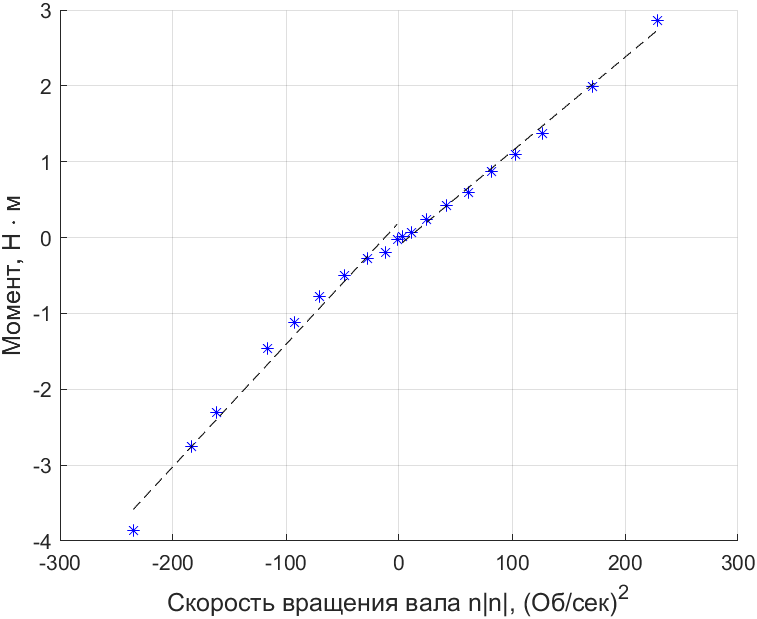
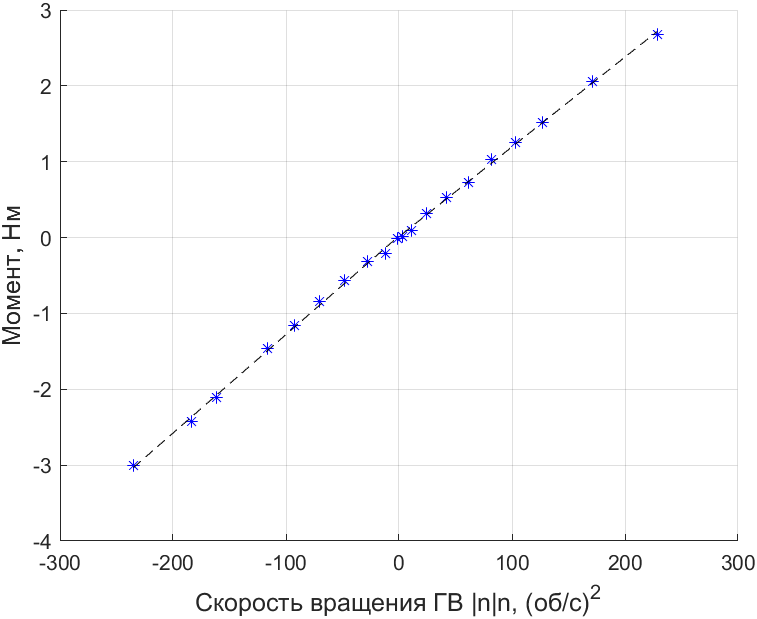
Немного переработана глава посвященная идентификации скорости набегающего потока.

diff --git a/Dissertation/partVelocity.tex b/Dissertation/partVelocity.tex
@@ -1,11 +1,11 @@
 \chapter{Оценка скорости набегающего потока в установившемся режиме движения ПА по изменению параметров работы маршевых движителей}\label{ch:Velocity}
 
 \section{Анализ модели маршевого движителя в установившемся режиме работы}
-Упор создаваемый гребным винтом движителя $T$ и момент сопротивления вращению $Q$ формируемый при этом на валу определяется следующими формулами \cite{пантов1973основы}:
-\begin{gather}
-    T(n, J_0) = K_T (J_0) \rho D^4 n |n| \notag \\
-    Q(n, J_0) = K_Q (J_0) \rho D^5 n |n| \label{eq:torque_stab}
-\end{gather}
+Как было показано в формулах \ref{eq:kt_kq} в установившемся режиме упор создаваемый гребным винтом движителя $T$ и момент сопротивления вращению $Q$ формируемый при этом на валу определяется следующими формулами:
+\begin{gather*}
+    T(n, J_0) = K_T (J_0) \rho D^4 n |n|\\
+    Q(n, J_0) = K_Q (J_0) \rho D^5 n |n|
+\end{gather*}
 \noindent где:
 \begin{itemize}
     \item $K_T (J_0), K_Q (J_0)$ -- соответственно, коэффициенты упора и момента;
@@ -17,21 +17,20 @@
 Переменная $J_0$ представляет собой относительную поступь и определяется следующим уравнением:
 \begin{equation}
     \label{eq:ratio_1}
-    J_0 = \frac{u_a}{nD}
+    J_0 = \frac{v_a}{nD}
 \end{equation}
-\noindent где $u_a$ -- скорость набегающего потока воды относительно ПА.
-Эта скорость не совсем равна скорости аппарата $u$ и в устоявшемся режиме связана с ней следующим соотношением \cite{lewis1988principles}:
+\noindent где $v_a$ -- скорость набегающего потока воды относительно ПА.
+Эта скорость не совсем равна скорости аппарата $v$ и в устоявшемся режиме связана с ней следующим соотношением \cite{lewis1988principles}:
 \begin{equation*}
-    u_a = (1-w)u
+    v_a = (1-w)v
 \end{equation*}
 \noindent где $w$ -- коэффициент попутного потока.
-Параметр $w$ находится в диапазоне $0.1-0.4$ в зависимости от конструктивных особенностей движителя и ПА.
 
 Более подробно параметр $w$ представлен в работе \cite{10.1016/s1474-6670-17-46514-1} которая опирается лекционные заметки \cite{walderhaug1992motstand}:
 
 \begin{equation*}
     \label{eq:ambient_flow}
-    u_a = (1-w)u = (1 - w_w - w_p - w_v)u
+    v_a = (1-w)u = (1 - w_w - w_p - w_v)v
 \end{equation*}
 \noindent где:
 \begin{itemize}
@@ -39,7 +38,11 @@
     \item $w_v$ -- составная часть коэффициента попутного потока отражающая влияние вязких эффектов из-за влияния пограничных слоев.
 \end{itemize}
 
-Коэффициенты упора и момента гребного винта $K_T (J_0), K_Q (J_0)$ в больших пределах могут быть линейно аппроксимированы следующим образом \cite{10.1109/48.838987}:
+Параметр $w$ находится в диапазоне $0.1-0.4$ в зависимости от конструктивных особенностей судна.
+Этот коэффициент важен для движителей судов так как движители там установлены в гидродинамической тени, которую создает корпус судна и учет этого параметра необходим.
+При разработке АНПА, за счет малого и обтекаемого корпуса и, зачастую, за счет выноса маршевой группы из гидродинамической тени создаваемой аппаратом, этим коэффициентом можно пренебречь и в дальнейшем в работе мы будем считать что $v_a \approx v$.
+
+Коэффициенты упора и момента гребного винта $K_T (J_0), K_Q (J_0)$ в ограниченных пределах могут быть линейно аппроксимированы следующим образом \cite{10.1109/48.838987}:
 \begin{gather}
     \label{eq:coef_1}
     K_T(J_0) = \alpha_1 - \alpha_2 J_0 \\
@@ -58,43 +61,59 @@
 
 Из определения линейной аппроксимации коэффициента момента (\ref{eq:torque_linear}) и относительной поступи (уравнение \ref{eq:ratio_1}) можно выразить скорость набегающего потока следующим образом:
 \begin{equation}
-    u_a = \frac{1}{\beta_1} n D \left( K_Q^{bp} - K_Q \right)
+    v = \frac{1}{\beta_1} n D \left( K_Q^{bp} - K_Q \right)
 \end{equation}
-\noindent где коэффициент момента гребного винта в установившемся режиме хорошо описывается выражением \ref{eq:torque_stab}.
 
-С другой стороны динамика электропривода движителя стандартно представляется следующими дифференциальными уравнениями, которые хорошо описывают поведение асинхронного бесколлекторного двигателя:
-\begin{gather*}
-    L_a\frac{d}{dt}I=-R_aI-K_m n + V_m \\
-    J_m\dot{n} = K_m I - Q
-\end{gather*}
+С другой стороны динамика электропривода подводного движителя стандартно представляется следующими дифференциальными уравнениями:
+\begin{equation*}
+    \begin{array}{rl}
+        L_a\dot{I} &=-R_aI-C_e n + V \\
+        J_m\dot{n} &= C_m I - Q
+    \end{array}
+\end{equation*}
+\noindent где:
+\begin{itemize}
+    \item $V$ -- напряжение подводнимое к мотору;
+    \item $I$ -- ток в обмотках;
+    \item $n$ -- частота вращения вала электропривода;
+    \item $Q$ -- момент на валу;
+    \item $C_m$ -- коэффициент момента электропривода;
+    \item $R_a$ -- активное сопротивление обмоток электропривода;
+    \item $L_a$ -- индуктивность обмоток электропривода;
+    \item $С_e$ -- коэффициент самоиндукции;
+    \item $J_m$ -- момент инерции вала.
+\end{itemize}
 
-Важно учесть что, при релейном управлении фазами бесколлекторного двигателя коэффициент $K_m$ не является постоянной величиной и имеет обратно экспоненциальную зависимость от времени между переключениями фаз. 
-Эта зависимость хорошо описывается следующим уравнением в установившемся режиме работы мотора:
+Соответственно в установившемся режиме момент на валу движителя прямо пропорционален току на его обмотках:
 \begin{equation}
-    \label{eq:couple_coeff}
-    Q(n, I) = K_m(n)I = F_m \frac{I}{n}
+    Q = C_mI
 \end{equation}
-\noindent где $I$ -- ток на обмотках мотора, $n$ -- скорость вращения вала мотора, а переменную $F_m$ будем называть коэффициентом магнитной связности ротора и статора и её считаем величиной постоянной для данной конструкции привода.
 
-Соответственно, в установившемся режиме работы привода момент на валу мотора пропорционален току на обмотке привода, тогда может быть получено следующее выражение для расчета скорости набегающего потока на гребной винт движителя:
+% Важно учесть что, при релейном управлении фазами бесколлекторного двигателя коэффициент $K_m$ не является постоянной величиной и имеет обратно экспоненциальную зависимость от времени между переключениями фаз. 
+% Эта зависимость хорошо описывается следующим уравнением в установившемся режиме работы мотора:
+% \begin{equation}
+%     \label{eq:couple_coeff}
+%     Q(n, I) = K_m(n)I = F_m \frac{I}{n}
+% \end{equation}
+% \noindent где $I$ -- ток на обмотках мотора, $n$ -- скорость вращения вала мотора, а переменную $F_m$ будем называть коэффициентом магнитной связности ротора и статора и её считаем величиной постоянной для данной конструкции привода.
 
+% Соответственно, в установившемся режиме работы привода момент на валу мотора пропорционален току на обмотке привода, тогда может быть получено следующее выражение для расчета скорости набегающего потока на гребной винт движителя:
+
+Тогда формула для расчета скорости по параметрам работы движителя будет записана следующим образом:
 \begin{equation}
     \label{eq:velocity_final}
-    u_a \approx u = \frac{1}{\beta_1} \left( K_Q^{bp} n_u D - F_m\frac{I_u}{\rho D^4|n_u|n_u} \right)
+    u = \frac{1}{\beta_1} \left( K_Q^{bp} n D - K_m\frac{I}{\rho D^4|n|n} \right)
 \end{equation}
 \noindent где 
 \begin{itemize}
-    \item $K_Q^{bp}$ -- коэффициент момента сопротивления вращению гребного винта рассчитанный в ходе швартовных испытаний движителя; \item $\beta_1$ -- линейный коэффициент полиномиальной аппроксимации коэффициента момент $K_Q$;
-    \item $I_u$ -- ток на обмотках привода движителя при заданном коде управления $u$;
-    \item $n_u$ -- скорость вращения вала движителя при заданном коде управления $u$;
+    \item $K_Q^{bp}$ -- коэффициент момента сопротивления вращению гребного винта рассчитанный в ходе швартовных испытаний движителя; \item $\beta_1$ -- линейный коэффициент полиномиальной аппроксимации коэффициента момента сопротивления вращению $K_Q$;
+    \item $I$ -- ток на обмотках электропривода движителя;
+    \item $n$ -- скорость вращения вала электропривода;
 \end{itemize}
 
-В дальнейших расчетах мы будем принимать $u \approx u_a$, т.е. считать что коэффициент попутного потока $w$ пренебрежимо мал.
-Этот коэффициент важен для движителей судов, т.к., зачастую, движители там установлены в гидродинамической тени, которую создает корпус судна и там учет этого параметра необходим.
-При разработке автономных необитаемых подводных аппаратов, за счет малого и обтекаемого корпуса и, зачастую, за счет выноса маршевой группы из гидродинамической тени создаваемой аппаратом, этим коэффициентом можно пренебречь.
-
 \section{Учёт пространственной ориентации маршевых движителей при оценке скорости набегающего потока}
-В случае, если подводный аппарат оснащён единственным маршевым движителем, а маневрирование обеспечивается рулями управления в режиме крейсерской скорости или при помощи подруливающих движителей в позиционном режиме или в режиме малых скоростей. Примером таких аппаратов может служить линейка АНПА ``Remus'' \cite{allen1997remus, kukulya2010under}.
+В случае, если подводный аппарат оснащён единственным маршевым движителем, а маневрирование обеспечивается рулями управления в режиме крейсерской скорости или при помощи подруливающих движителей в позиционном режиме или в режиме малых скоростей, то формула \ref{eq:velocity_final} может обеспечить оценку скорости набегающего потока.
+Примером таких аппаратов может служить линейка АНПА ``Remus'' \cite{allen1997remus, kukulya2010under}.
 
 С другой стороны, отечественная практика разработки автономных подводных аппаратов отходит от мировой и в основном заключается в использовании четырех движителей, расположенных в кормовой секции под некоторым углом к продольной оси аппарата.
 Это такие аппараты как «МТ-2010» \cite{борейко2011малогабаритный}, «ММТ-3000» \cite{горнак2007ммт} и прочие АНПА разработанные в Институте проблем морских технологий ДВО РАН. 
@@ -102,7 +121,7 @@
 Такой подход позволяет повысить надежность системы за счет отсутствия основного двигателя, поломка которого полностью выведет из строя подводный аппарат.
 Кроме этого такая конфигурация движительно-рулевого комплекса позволяет обеспечивать управление по вращательным степеням свободы даже в позиционном режиме.
 
-Если в маршевой группе движителей подводного аппарата больше одного, то расчёт скорости набегающего потока по изменению параметров работы приводов становится более затруднительным и требует точного учета расположения и ориентации каждого движителя в пространстве.
+В этом расчёт скорости набегающего потока по изменению параметров работы электроприводов более затруднителен и требует точного учета расположения и ориентации каждого движителя в пространстве.
 
 Пусть движители повёрнуты относительно продольной оси аппарата на углы $\phi^i, \theta^i$, где угол $\phi^i$ определяет разворот движителя в горизонтальной плоскости, а $\theta^i$ -- разворот движителя в вертикальной плоскости.
 Идентификатор $i$ меняется в диапазоне $[1,..,k]$, где $k$ -- количество движителей в кормовой секции.
@@ -120,22 +139,42 @@
     \item $\theta^i_t$ -- отклонение движителя от продольной оси аппарата в вертикальной плоскости плоскости;
 \end{itemize}
 
-Кроме этого, так же важно учесть, что при наличии ненулевых углов атаки $\alpha$ и дрейфа $\beta$ в скоростной системе координат идентифицируемые скорости на различных движителях будут различны и это необходимо учитывать.
+Но такая конфигурация маршевой группы движителей позволяет определять не только скорость набегающего потока, как в случае единственного маршевого движителя, но так же и углы атаки и дрейфа.
 
-Пусть АНПА движется со скоростью $u$ относительно грунта с курсом $\phi$ в локальной инерциальной системе координат и постоянным дифферентом вызванным положительной плавучестью АНПА $\theta_b$.
+Пусть аппарат оснащен симметричной маршевой группой, состоящей из двух вертикальных и двух горизонтальных движителей.
+Каждый из отклонён от продольной оси аппарата на $\delta$. 
+Пусть на аппарат набегает поток величиной $u$ и при этом угол атаки ПА в ССК $\alpha$ и угол дрейфа $\beta$.
+В этом случае скорости детектиуремые на движителях определяются следующими зависимостями:
+\begin{equation*}
+    \left\{
+    \begin{array}{l}
+        v_l = v \cos{(\delta - \beta)} \\
+        v_r = v \cos{(\delta + \beta)} \\
+        v_u = v \cos{(\delta - \alpha)} \\
+        v_d = v \cos{(\delta + \alpha)}
+    \end{array}
+    \right.
+\end{equation*}
 
-Пусть течение в области движения АНПА неизменно по скорости и направлению и определяется переменными $u_c$ и $\phi_c$ В ИСК, соответственно.
+Из представленной системы уравнений несложно получить что угол атаки и угол дрейфа можно описать следующими выражениями:
 
-\begin{noteplan}
-    Тут еще не доработано. Добавлю про расчет угла атаки и дрейфа и возможность расчета параметров течения, если есть данные с доплера.
-\end{noteplan}
+\begin{gather}
+    \beta = \arctan{\left[\frac{1}{\tan{\delta}}\frac{v_l-v_r}{v_l+v_r}\right]} \\
+    \alpha = \arctan{\left[\frac{1}{\tan{\delta}}\frac{v_u-v_d}{v_u+v_d}\right]}
+\end{gather}
+
+% Кроме этого, так же важно учесть, что при наличии ненулевых углов атаки $\alpha$ и дрейфа $\beta$ в скоростной системе координат идентифицируемые скорости на различных движителях будут различны и это необходимо учитывать.
+
+% Пусть АНПА движется со скоростью $u$ относительно грунта с курсом $\phi$ в локальной инерциальной системе координат и постоянным дифферентом вызванным положительной плавучестью АНПА $\theta_b$.
+
+% Пусть течение в области движения АНПА неизменно по скорости и направлению и определяется переменными $u_c$ и $\phi_c$ В ИСК, соответственно.
+
+% \begin{noteplan}
+%     Тут еще не доработано. Добавлю про расчет угла атаки и дрейфа и возможность расчета параметров течения, если есть данные с доплера.
+% \end{noteplan}
 
 \section{Экспериментальное исследование разработанного метода оценки скорости набегающего потока по данным запусков АНПА ``ММТ-3000''}
 В рамках исследования была проверена гипотеза о работоспособности метода оценки скорости набегающего потока по изменению параметров работы приводов маршевых двигателей.
-
-\begin{noteplan}
-    Здесь добавлю обработку данных с MMT-300. Там можно расчитать угол атаки который можно валидировать через угол дифферента в устоявшемся режиме. Но, наверное, в рамках НКР по остаточному принципу.
-\end{noteplan}
 
 Для этого этого были проанализированы стендовые и маршевые испытания движителей маршевой группы АНПА ``ММТ-3000'', а так же проанализированы данные тестовых запусков подводного аппарата в рамках которых были идентифицированы ГДХ аппарата.
 
@@ -189,25 +228,33 @@
         \bottomrule
     \end{tabular}
 \end{table}
-
-В рамках проведения нагрузочных испытаний электродвигателя был определен коэффициент магнитной связности $F_m$ (формула \ref{eq:couple_coeff}), который хорошо описывает зависимость момента на валу электропривода от величины тока на его в обмотках с поправкой на скорость вращения вала.
-На рисунке \ref{fig:motor_torque} отражена зависимость момента создаваемого электроприводом на валу и её расчет через коэффициент магнитной связности $F_m$ с поправкой на скорость вращения вала.
-
-\begin{noteplan}
-    Это наверное переделаю просто на нелинейность параметра Cm. Не думаю что есть смысл вводить новую сущность.
-\end{noteplan}
+На рисунке \ref{fig:motor_load_test} продемонстированы результаты проведения нагрузочных испытаний электродвигателя.
+Хоть зависимость между моментом на валу электропривода и значением тока на обмотках мотора зависит явно линейно, коэффициент момента $C_m$ различен для разных значений кода управления.
+Это поведение хорошо описывается уравнением:
+\begin{equation*}
+    C_m(k) = \frac{C_m^0}{k}
+\end{equation*}
+\noindent где $C_m^0$ -- некоторая постоянная, а $k$ -- код управления электроприводом.
+Результаты аппроксимации значения коэфициента момента от кода управления для $C_m^0 = 15.2$ приведены на рисунке \ref{fig:function_cm}.
 
 \begin{figure}[ht]
     \centering
-    \includegraphics[width=0.8\linewidth]{velocity/MMT3000 - Зависимость момента от тока.png}
-    \caption{Зависимость момента на валу электропривода полученная в рамках нагрузочных испытаний и её расчет через коэффициент $F_m$}
-    \label{fig:motor_torque}
+    \includegraphics[width=0.8\linewidth]{velocity/MMT3000 - Нагрузочные испытания.png}
+    \caption{Результаты нагрузочных испытаний электропривода ``2 ДБМ 70-1,1-1,3-3''.}
+    \label{fig:motor_load_test}
+\end{figure}
+
+\begin{figure}[ht]
+    \centering
+    \includegraphics[width=0.8\linewidth]{velocity/MMT3000 - Cm от кода управления.png}
+    \caption{Зависимость коэфициента момента электропривода от кода управления $k$.}
+    \label{fig:function_cm}
 \end{figure}
 
 \subsection{Параметры гребного винта}
 В качестве гребного винта на АНПА ``ММТ-3000'' был использован стандартный трехлопастной винт, который изготавливается путем отливки из пластика.
-Гидродинамические коэффициенты винта $K_T, K_q$ были заранее получены регрессионным анализом по его геометрическим параметрам.
-Они показаны на рисунке \ref{fig:mmt3000_propeller} вместе с их линейной аппроксимацией в диапазоне относительной поступи 0-0.5, где 0.5 соответствует скорости АНПА примерно 1.5 м/с и скорости вращения гребного винта 22 об/сек.
+Первичные гидродинамические коэффициенты винта $K_T, K_Q$ были заранее получены регрессионным анализом по его геометрическим параметрам.
+Они показаны на рисунке \ref{fig:mmt3000_propeller} вместе с их линейной аппроксимацией в диапазоне относительной поступи 0-0.5, где 0.5 соответствует скорости АНПА примерно 1,5 м/с и скорости вращения гребного винта 22 об/сек.
 Все расчетные параметры гребного винта представлены в таблице \ref{tab:mmt3000_propeller}.
 
 \begin{table}
@@ -223,10 +270,10 @@
         Диаметр, м & 0,19 \\
         Дисковое отношение & 0,40 \\
         Шаговое отношение & 0,87 \\
-        Регрессионный $K_T$ & $-0.0964\lambda^2 -0.2774\lambda + 0.3519$ \\
-        Регрессионный $K_Q$ & $-0.0144\lambda^2 -0.0301\lambda + 0.0456$ \\
-        Регрессионный $K_T^{lin}$ & $-0.3256\lambda + 0.3558$ \\
-        Регрессионный $K_Q^{lin}$ & $-0.0373\lambda + 0.0462$ \\
+        Регрессионный $K_T$ & $-0.0964J_0^2 -0.2774J_0 + 0.3519$ \\
+        Регрессионный $K_Q$ & $-0.0144J_0^2 -0.0301J_0 + 0.0456$ \\
+        Регрессионный $K_T^{lin}$ & $-0.3256J_0 + 0.3558$ \\
+        Регрессионный $K_Q^{lin}$ & $-0.0373J_0 + 0.0462$ \\
         \bottomrule
     \end{tabular}
 \end{table}
@@ -239,7 +286,7 @@
 \end{figure}
 
 \subsection{Анализ результатов швартовных испытаний маршевых движителя}
-Были проведён анализ результатов швартовных испытаний движителя в рамках которого были получены значения усилия создаваемого движителем и потребляемого при этом тока в зависимости от заданного кода управления задаваемого в систему управления движителем.
+В рамках исследования был проведён анализ результатов швартовных испытаний движителя, в результате чего были получены значения усилия создаваемые движителем и потребляемый при этом ток в зависимости от задаваемого кода управления.
 
 Код управления движителем представляет собой целое число находящееся в пределах от -127 до 127, где диапазон от 0 до 127 пропорционально изменяет эффективное значение напряжения на моторе в диапазоне от 0 до 24В, а диапазон от 0 до -127 формирует аналогичное напряжение но с обратным направлением вращения вала мотора.
 
@@ -267,7 +314,7 @@
     \label{fig:mmt3000_torque_rotation2}
 \end{figure}
 
-По этим данным были уточнены параметры коэффициентов $K_T, K_Q$ в части $\lambda = 0$, то есть при отсутствии набегающего потока.
+По этим данным были уточнены параметры коэффициентов $K_T, K_Q$ в части $J_0 = 0$, то есть при отсутствии набегающего потока.
 На рисунках \ref{fig:mmt3000_propeller_kt_bollard} и \ref{fig:mmt3000_propeller_kq_bollard} соответственно отображены уточненные по результатам швартовных испытаний движителя зависимости коэффициента упора винта $K_T$ и его коэффициента момента сопротивления вращению $K_Q$.
 Численные значения уточненных линеаризованных параметров гребного винта представлены в таблице \ref{tab:mmt3000_propeller_bollard}.
 
@@ -279,8 +326,8 @@
         \toprule
         Наименование параметра  & Значение\\
         \midrule
-        $K_T^{lin}$ & $-0.3256\lambda + 0.3421$ \\
-        $K_Q^{lin}$ & $-0.0373\lambda + 0.0501$ \\
+        $K_T^{lin}$ & $-0.3256J_0 + 0.3421$ \\
+        $K_Q^{lin}$ & $-0.0373J_0 + 0.0501$ \\
         \bottomrule
     \end{tabular}
 \end{table}
@@ -307,38 +354,47 @@
 
 В качестве данных для анализов использовались калибровочные запуски АНПА ``ММТ-3000'' для расчета ГДХ подводного аппарата, полученные в 2019 году в заливе Патрокл.
 Для расчета ГДХ были проведены запуски подводного аппарата на фиксированной глубине со ступенчатым изменением скорости продольного движения.
-График изменения скорости представлен на рисунке \ref{fig:mmt3000_velocity}.
+График изменения скорости представлен на рисунке \ref{fig:mmt3000_velocity} и соответствующее изменение относительной поступи винта с поправкой на пространственную ориентацию движителей представлена на рисунке \ref{fig:advance_ratio}.
 
 \begin{figure}[ht]
     \centering
     \includegraphics[width=0.8\linewidth]{velocity/MMT3000 - Скорость с допплера.png}
-    \caption{График изменения скорости подводного аппарата ``MMT-3000''.}
+    \caption{Изменение скорости АНПА ``MMT-3000'' на всем маршруте движения.}
     \label{fig:mmt3000_velocity}
 \end{figure}
+
+\begin{figure}[ht]
+    \centering
+    \includegraphics[width=0.8\linewidth]{velocity/MMT3000 - Относительная поступь.png}
+    \caption{Значение относительной поступи ГВ маршевой группы движителей АНПА ``MMT-3000'' на всем маршруте движения.}
+    \label{fig:advance_ratio}
+\end{figure}
+
 
 Соответствующие ему график изменения потребляемого тока и скорости вращения гребных винтов движителей маршевой группы представлены на рисунках \ref{fig:mmt3000_curent} и  \ref{fig:mmt3000_rotation}, соответсвенно.
 
 \begin{figure}[ht]
     \centering
     \includegraphics[width=0.8\linewidth]{velocity/MMT3000 - Токи движителей.png}
-    \caption{График изменения тока движителей маршевой группы подводного аппарата ``MMT-3000''.}
+    \caption{Ток на обмотках электроприводов маршевой группы движителей АНПА ``MMT-3000''.}
     \label{fig:mmt3000_curent}
 \end{figure}
 
 \begin{figure}[ht]
     \centering
     \includegraphics[width=0.8\linewidth]{velocity/MMT3000 - Обороты движителей.png}
-    \caption{График изменения скорости вращения гребных винтов движителей маршевой группы подводного аппарата ``MMT-3000''.}
+    \caption{Скорости вращения гребных винтов движителей маршевой группы подводного аппарата ``MMT-3000''.}
     \label{fig:mmt3000_rotation}
 \end{figure}
 
-В первую очередь, по первой части движения АНПА (время от 0 до 185 секунд) были откалиброван параметр $\beta_1$, который представляет собой линейный коэффициент полиномиальной аппроксимации коэффициента сопротивления вращению гребного винта $K_Q$. 
+По первой части движения АНПА (время от 0 до 185 секунд) был откалиброван параметр $\beta_1$, который представляет собой линейный коэффициент полиномиальной аппроксимации коэффициента сопротивления вращению гребного винта $K_Q$. 
 
 Была использована выведенная формула расчета скорости набегающего потока \ref{eq:velocity_final} с учётом геометрии движительно-рулевого комплекса (уравнение \ref{eq:velocity_orientation}).
 Для этого по методу наименьших квадратов был рассчитан такой параметр $\beta_1$ при котором минимизируется следующая разница:
-\begin{equation*}
+\begin{equation}
+    \label{eq:b1_search}
     min\left\{ \sum_{i=0}^N\left( v_d - v_i \right)^2 \right\}
-\end{equation*}
+\end{equation}
 \noindent где:
 \begin{itemize}
     \item $N$ -- количество движителей маршевой группы;
@@ -348,12 +404,12 @@
 
 По данному методу коэффициент $\beta_1$ составил 0.0301 (по расчетам в рамках регрессионного анализа для данной геометрической конфигурации гребного винта данный коэффициент составил 0.0363).
 
-На рисунке \ref{fig:mmt3000_velocity_test} показан график скорости продольного движения АНПА ``ММТ-3000'' полученный разными методами на тестовом участке движения от 0 до 185 секунд.
+На рисунке \ref{fig:mmt3000_velocity_test} показан график скорости продольного движения АНПА ``ММТ-3000'' полученный разными методами на тестовом участке движения от 0 до 185 секунд после уточнения параметра $\beta_1$ по формуле \ref{eq:b1_search}.
 
 \begin{figure}[ht]
     \centering
-    \includegraphics[width=0.8\linewidth]{velocity/ММТ3000 - идентификация b2.png}
-    \caption{График скорости продольного движения АНПА ``ММТ-3000'' полученный разными методами на тестовом участке движения от 0 до 185 секунд.}
+    \includegraphics[width=0.8\linewidth]{velocity/MMT3000 - Скорость первый участок.png}
+    \caption{Скорость продольного движения АНПА ``ММТ-3000'' от 0 до 185 секунд.}
     \label{fig:mmt3000_velocity_test}
 \end{figure}
 
@@ -363,7 +419,7 @@
 \begin{figure}[ht]
     \centering
     \includegraphics[width=0.8\linewidth]{velocity/ММТ3000 - тестирование b2.png}
-    \caption{График скорости продольного движения АНПА ``ММТ-3000'' полученный разными методами на проверочном участке движения от 240 до 410 секунд.}
+    \caption{Cкорость продольного движения АНПА ``ММТ-3000'' на проверочном участке движения от 240 до 410 секунд.}
     \label{fig:mmt3000_velocity_check}
 \end{figure}
 

diff --git a/Dissertation/partPropulsion.tex b/Dissertation/partPropulsion.tex
@@ -128,10 +128,11 @@
     \item $c$ -- длина хорды лопасти.
 \end{itemize}
 
-На основе уравнения \ref{eq:propeler_model} упор движителя и момент сопротивления может быть записан следующим образом:
+На основе уравнения \ref{eq:propeler_model} упор движителя и момент сопротивления может быть записан следующим образом \cite{пантов1973основы}:
 \begin{gather}
-    T = \rho D^4K_T(J_0)n|n| \\
-    Q = \rho D^5K_Q(J_0)n|n|
+    \label{eq:kt_kq}
+    T(n, J_0) = K_T (J_0) \rho D^4 n |n|\\
+    Q(n, J_0) = K_Q (J_0) \rho D^5 n |n|
 \end{gather}
 
 \subsection{Математическая модель привода движителя}
